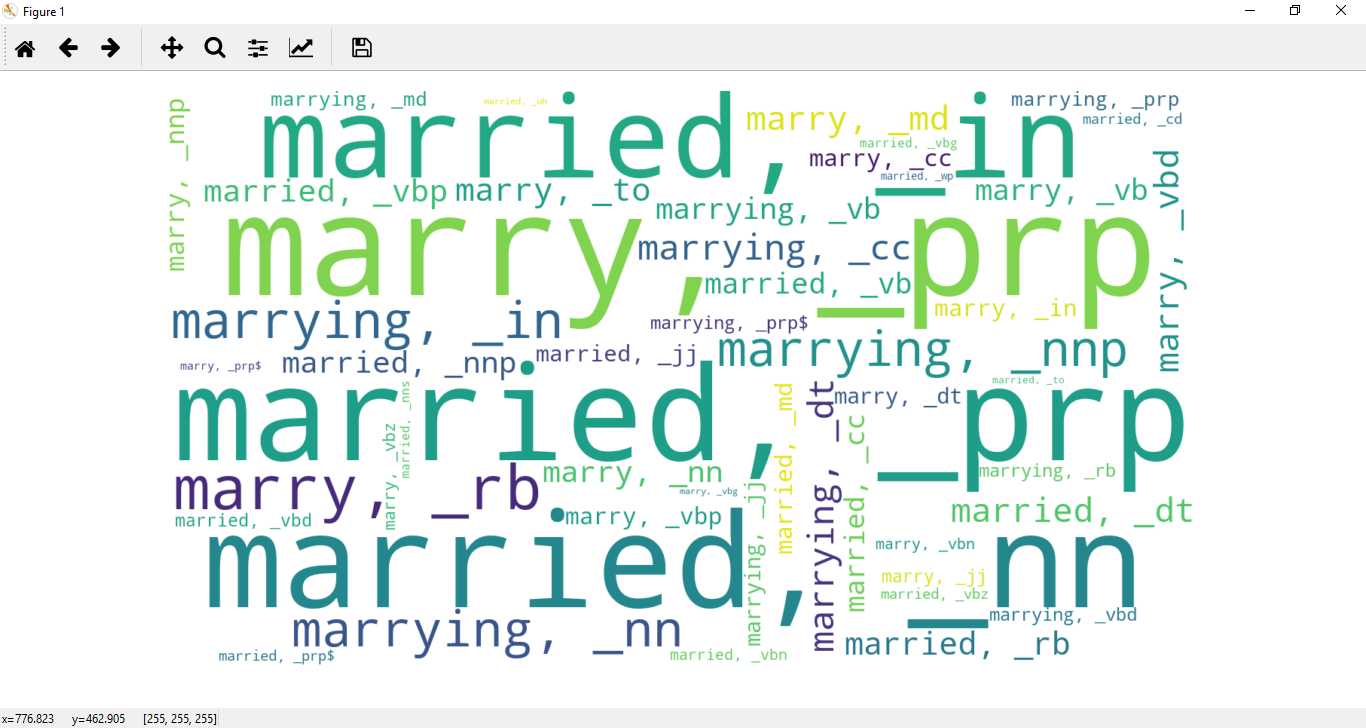
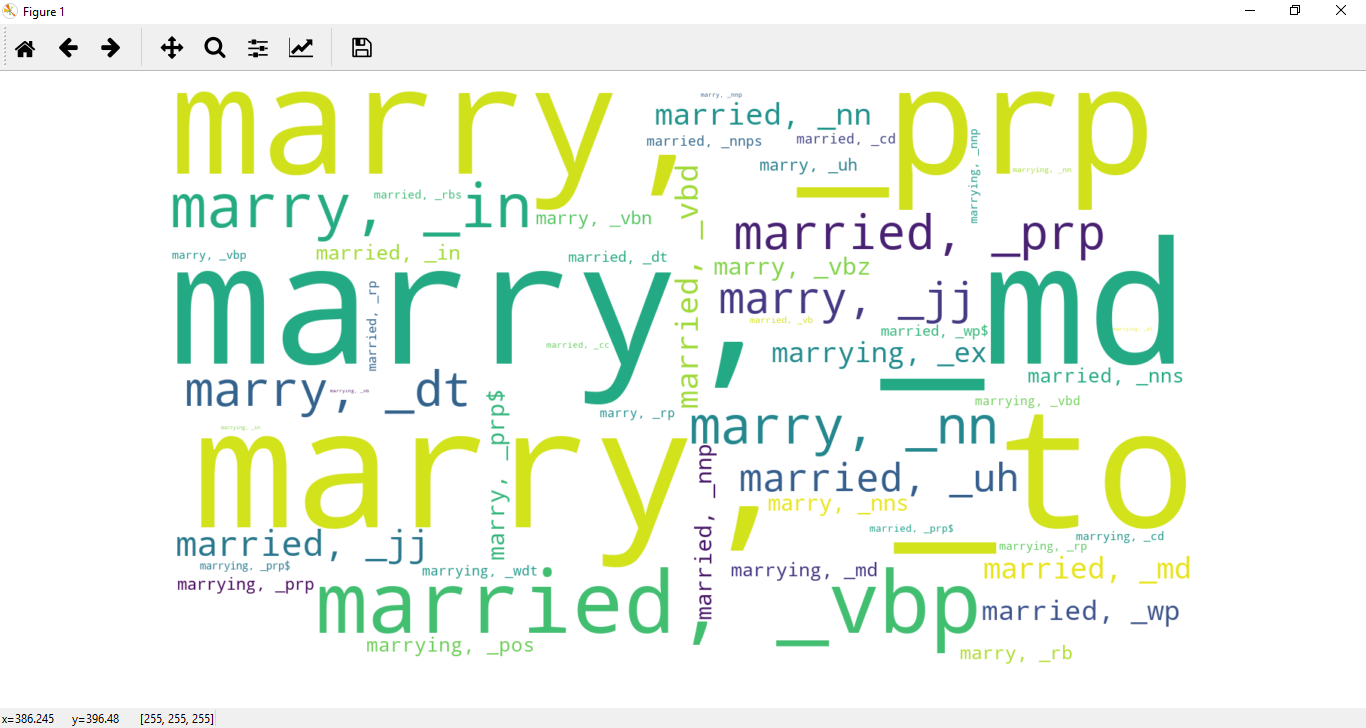
Work Area: Update Colligation

Changed region(s): [[0.123, 0.1209, 0.8917, 0.9066], [0.0615, 0.967, 0.1845, 0.9973], [0.0, 0.967, 0.0307, 0.9973]]

diff --git a/src/wordless_colligation.py b/src/wordless_colligation.py
@@ -11,6 +11,7 @@
 
 import collections
 import copy
+import operator
 import re
 import time
 
@@ -634,14 +635,13 @@ class Wordless_Worker_Process_Data_Colligation(wordless_threading.Wordless_Worke
     def __init__(self, main, dialog_progress, data_received):
         super().__init__(main, dialog_progress, data_received)
 
-        self.collocates_freqs_files = []
-        self.collocates_stats_files = []
+        self.colligations_freqs_files = []
+        self.colligations_stats_files = []
         self.nodes_text = {}
 
     def process_data(self):
         texts = []
-        ngrams_freq_files = []
-        pos_tags_freq_files = []
+        colligations_freqs_files_all = []
 
         settings = self.main.settings_custom['colligation']
 
@@ -661,8 +661,8 @@ class Wordless_Worker_Process_Data_Colligation(wordless_threading.Wordless_Worke
 
         # Frequency
         for i, file in enumerate(files):
-            collocates_freqs_file = {}
-            collocates_tokens = []
+            colligations_freqs_file = {}
+            colligations_freqs_file_all = {}
 
             text = wordless_text.Wordless_Text(self.main, file)
 
@@ -712,87 +712,91 @@ class Wordless_Worker_Process_Data_Colligation(wordless_threading.Wordless_Worke
                 len_search_term_max = 1
 
             for ngram_size in range(len_search_term_min, len_search_term_max + 1):
+                if ngram_size not in colligations_freqs_files_all:
+                    colligations_freqs_file_all[ngram_size] = collections.Counter()
+
                 for i, ngram in enumerate(nltk.ngrams(tokens, ngram_size)):
                     for j, collocate in enumerate(reversed(text.tags_pos[max(0, i - window_size_left) : i])):
                         if wordless_matching.check_context(i, tokens,
                                                            context_settings = settings['context_settings'],
                                                            search_terms_inclusion = search_terms_inclusion,
                                                            search_terms_exclusion = search_terms_exclusion):
-                            if (ngram, collocate) not in collocates_freqs_file:
-                                collocates_freqs_file[(ngram, collocate)] = [0] * window_size
+                            if (ngram, collocate) not in colligations_freqs_file:
+                                colligations_freqs_file[(ngram, collocate)] = [0] * window_size
 
-                            collocates_freqs_file[(ngram, collocate)][window_size_left - 1 - j] += 1
+                            colligations_freqs_file[(ngram, collocate)][window_size_left - 1 - j] += 1
 
-                            collocates_tokens.append(tokens[max(0, i - window_size_left) : i][j])
+                        colligations_freqs_file_all[ngram_size][(ngram, collocate)] += 1
 
                     for j, collocate in enumerate(text.tags_pos[i + ngram_size: i + ngram_size + window_size_right]):
                         if wordless_matching.check_context(i, tokens,
                                                            context_settings = settings['context_settings'],
                                                            search_terms_inclusion = search_terms_inclusion,
                                                            search_terms_exclusion = search_terms_exclusion):
-                            if (ngram, collocate) not in collocates_freqs_file:
-                                collocates_freqs_file[(ngram, collocate)] = [0] * window_size
+                            if (ngram, collocate) not in colligations_freqs_file:
+                                colligations_freqs_file[(ngram, collocate)] = [0] * window_size
 
-                            collocates_freqs_file[(ngram, collocate)][window_size_left + j] += 1
+                            colligations_freqs_file[(ngram, collocate)][window_size_left + j] += 1
 
-                            collocates_tokens.append(tokens[i + ngram_size: i + ngram_size + window_size_right][j])
+                        colligations_freqs_file_all[ngram_size][(ngram, collocate)] += 1
 
-            collocates_freqs_file = {(ngram, collocate): freqs
-                                     for (ngram, collocate), freqs in collocates_freqs_file.items()
+            colligations_freqs_file = {(ngram, collocate): freqs
+                                     for (ngram, collocate), freqs in colligations_freqs_file.items()
                                      if all(ngram) and collocate}
 
             # Filter search terms
             if settings['search_settings']['search_settings']:
-                collocates_freqs_file_filtered = {}
+                colligations_freqs_file_filtered = {}
 
                 for search_term in search_terms:
                     len_search_term = len(search_term)
 
-                    for (node, collocate), freqs in collocates_freqs_file.items():
+                    for (node, collocate), freqs in colligations_freqs_file.items():
                         for ngram in nltk.ngrams(node, len_search_term):
                             if ngram == search_term:
-                                collocates_freqs_file_filtered[(node, collocate)] = freqs
+                                colligations_freqs_file_filtered[(node, collocate)] = freqs
 
-                self.collocates_freqs_files.append(collocates_freqs_file_filtered)
+                self.colligations_freqs_files.append(colligations_freqs_file_filtered)
             else:
-                self.collocates_freqs_files.append(collocates_freqs_file)
+                self.colligations_freqs_files.append(colligations_freqs_file)
 
-            # Frequency (Tokens)
-            for i in range(len_search_term_min, len_search_term_max + 1):
-                    ngrams_freq_files.append(collections.Counter(nltk.ngrams(tokens, i)))
-
-            # Frequency (POS tags)
-            pos_tags_freq_files.append(collections.Counter(text.tags_pos))
+            # Frequency (All)
+            colligations_freqs_files_all.append(colligations_freqs_file_all)
 
             # Nodes Text
             if settings['token_settings']['use_tags']:
-                for (node, collocate) in collocates_freqs_file:
+                for (node, collocate) in colligations_freqs_file:
                     self.nodes_text[node] = wordless_text_processing.wordless_word_detokenize(self.main, node, text.lang_code)
             else:
-                for (node, collocate) in collocates_freqs_file:
+                for (node, collocate) in colligations_freqs_file:
                     self.nodes_text[node] = ' '.join(node)
 
             texts.append(text)
 
         # Total
         if len(files) > 1:
-            collocates_freqs_total = {}
+            colligations_freqs_total = {}
+            colligations_freqs_total_all = {}
 
-            text_total = wordless_text.Wordless_Text_Blank()
-            text_total.tokens = [token for text in texts for token in text.tokens]
+            texts.append(wordless_text.Wordless_Text_Blank())
 
-            texts.append(text_total)
-            ngrams_freq_files.append(sum(ngrams_freq_files, collections.Counter()))
-            pos_tags_freq_files.append(sum(pos_tags_freq_files, collections.Counter()))
-
-            for collocates_freqs_file in self.collocates_freqs_files:
-                for collocate, freqs in collocates_freqs_file.items():
-                    if collocate not in collocates_freqs_total:
-                        collocates_freqs_total[collocate] = numpy.array(freqs)
+            # Frequency
+            for colligations_freqs_file in self.colligations_freqs_files:
+                for colligation, freqs in colligations_freqs_file.items():
+                    if colligation not in colligations_freqs_total:
+                        colligations_freqs_total[colligation] = freqs
                     else:
-                        collocates_freqs_total[collocate] += numpy.array(freqs)
+                        colligations_freqs_total[colligation] = list(map(operator.add, colligations_freqs_total[colligation], freqs))
+            # Frequency (All)
+            for colligations_freqs_file_all in colligations_freqs_files_all:
+                for ngram_size, colligations_freqs in colligations_freqs_file_all.items():
+                    if ngram_size not in colligations_freqs_total_all:
+                        colligations_freqs_total_all[ngram_size] = collections.Counter()
 
-            self.collocates_freqs_files.append(collocates_freqs_total)
+                    colligations_freqs_total_all[ngram_size] += colligations_freqs
+
+            self.colligations_freqs_files.append(colligations_freqs_total)
+            colligations_freqs_files_all.append(colligations_freqs_total_all)
 
         self.progress_updated.emit(self.tr('Processing data ...'))
 
@@ -803,36 +807,44 @@ class Wordless_Worker_Process_Data_Colligation(wordless_threading.Wordless_Worke
         test_significance = self.main.settings_global['tests_significance']['collocation'][text_test_significance]['func']
         measure_effect_size = self.main.settings_global['measures_effect_size']['collocation'][text_measure_effect_size]['func']
 
-        collocates_total = self.collocates_freqs_files[-1].keys()
+        colligations_total = self.colligations_freqs_files[-1].keys()
 
-        for text, ngrams_freq_file, pos_tags_freq_file, collocates_freqs_file in zip(texts,
-                                                                                     ngrams_freq_files,
-                                                                                     pos_tags_freq_files,
-                                                                                     self.collocates_freqs_files):
-            collocates_stats_file = {}
+        for text, colligations_freqs_file, colligations_freqs_file_all in zip(texts,
+                                                                              self.colligations_freqs_files,
+                                                                              colligations_freqs_files_all):
+            colligations_stats_file = {}
+            c1xs = collections.Counter()
+            cx1s = collections.Counter()
+            cxxs = {}
 
-            len_tokens = len(text.tokens)
+            # C1x & Cx1
+            for ngram_size, colligations_freqs in colligations_freqs_file_all.items():
+                for (node, collocate), freq in colligations_freqs.items():
+                    c1xs[collocate] += freq
+                    cx1s[node] += freq
 
-            for node, collocate in collocates_total:
-                len_node = len(node)
+            # Cxx
+            for ngram_size, colligations_freqs in colligations_freqs_file_all.items():
+                cxxs[ngram_size] = sum(colligations_freqs.values())
 
-                if (node, collocate) in collocates_freqs_file:
-                    c11 = sum(collocates_freqs_file[(node, collocate)])
+            for node, collocate in colligations_total:
+                if (node, collocate) in colligations_freqs_file:
+                    c11 = sum(colligations_freqs_file[(node, collocate)])
                 else:
                     c11 = 0
 
-                c12 = max(0, pos_tags_freq_file[(collocate,)] - c11)
-                c21 = max(0, ngrams_freq_file[node] - c11)
-                c22 = len_tokens - c11 - c12 - c21
+                c12 = c1xs[collocate] - c11
+                c21 = cx1s[node] - c11
+                c22 = cxxs[len(node)] - c11 - c12 - c21
 
-                collocates_stats_file[(node, collocate)] = test_significance(self.main, c11, c12, c21, c22)
-                collocates_stats_file[(node, collocate)].append(measure_effect_size(self.main, c11, c12, c21, c22))
+                colligations_stats_file[(node, collocate)] = test_significance(self.main, c11, c12, c21, c22)
+                colligations_stats_file[(node, collocate)].append(measure_effect_size(self.main, c11, c12, c21, c22))
 
-            self.collocates_stats_files.append(collocates_stats_file)
+            self.colligations_stats_files.append(colligations_stats_file)
 
         if len(files) == 1:
-            self.collocates_freqs_files *= 2
-            self.collocates_stats_files *= 2
+            self.colligations_freqs_files *= 2
+            self.colligations_stats_files *= 2
 
 class Wordless_Worker_Process_Data_Colligation_Table(Wordless_Worker_Process_Data_Colligation):
     def process_data(self):
@@ -842,8 +854,8 @@ class Wordless_Worker_Process_Data_Colligation_Table(Wordless_Worker_Process_Dat
 
         time.sleep(0.1)
 
-        self.processing_finished.emit(wordless_misc.merge_dicts(self.collocates_freqs_files),
-                                      wordless_misc.merge_dicts(self.collocates_stats_files),
+        self.processing_finished.emit(wordless_misc.merge_dicts(self.colligations_freqs_files),
+                                      wordless_misc.merge_dicts(self.colligations_stats_files),
                                       self.nodes_text)
 
 class Wordless_Worker_Process_Data_Colligation_Fig(Wordless_Worker_Process_Data_Colligation):
@@ -854,14 +866,14 @@ class Wordless_Worker_Process_Data_Colligation_Fig(Wordless_Worker_Process_Data_
 
         time.sleep(0.1)
 
-        self.processing_finished.emit(wordless_misc.merge_dicts(self.collocates_freqs_files),
-                                      wordless_misc.merge_dicts(self.collocates_stats_files),
+        self.processing_finished.emit(wordless_misc.merge_dicts(self.colligations_freqs_files),
+                                      wordless_misc.merge_dicts(self.colligations_stats_files),
                                       self.nodes_text)
 
 @wordless_misc.log_timing
 def generate_table(main, table):
-    def data_received(collocates_freqs_files, collocates_stats_files, nodes_text):
-        if collocates_freqs_files:
+    def data_received(colligations_freqs_files, colligations_stats_files, nodes_text):
+        if colligations_freqs_files:
             table.clear_table()
 
             table.settings = main.settings_custom
@@ -978,10 +990,10 @@ def generate_table(main, table):
             table.setSortingEnabled(False)
             table.setUpdatesEnabled(False)
 
-            table.setRowCount(len(collocates_freqs_files))
+            table.setRowCount(len(colligations_freqs_files))
 
-            for i, ((node, collocate), stats_files) in enumerate(wordless_sorting.sorted_collocates_stats_files(collocates_stats_files)):
-                freqs_files = collocates_freqs_files[(node, collocate)]
+            for i, ((node, collocate), stats_files) in enumerate(wordless_sorting.sorted_collocations_stats_files(colligations_stats_files)):
+                freqs_files = colligations_freqs_files[(node, collocate)]
 
                 # Rank
                 table.set_item_num_int(i, 0, -1)
@@ -1065,8 +1077,8 @@ def generate_table(main, table):
 
 @wordless_misc.log_timing
 def generate_fig(main):
-    def data_received(collocates_freqs_files, collocates_stats_files, nodes_text):
-        if collocates_freqs_files:
+    def data_received(colligations_freqs_file, colligations_stats_files, nodes_text):
+        if colligations_freqs_file:
             text_test_significance = settings['generation_settings']['test_significance']
             text_measure_effect_size = settings['generation_settings']['measure_effect_size']
 
@@ -1085,40 +1097,40 @@ def generate_fig(main):
                     span_position = span_positions.index(int(settings['fig_settings']['use_data'][1:]))
 
                 collocates_freq_files = {', '.join([nodes_text[node], collocate]): numpy.array(freqs)[:, span_position]
-                                         for (node, collocate), freqs in collocates_freqs_files.items()}
+                                         for (node, collocate), freqs in colligations_freqs_file.items()}
 
                 wordless_fig_freq.wordless_fig_freq(main, collocates_freq_files,
                                                     settings = settings['fig_settings'],
                                                     label_x = main.tr('Collocates'))
             elif settings['fig_settings']['use_data'] == main.tr('Frequency'):
                 collocates_freq_files = {', '.join([nodes_text[node], collocate]): numpy.array(freqs).sum(axis = 1)
-                                         for (node, collocate), freqs in collocates_freqs_files.items()}
+                                         for (node, collocate), freqs in colligations_freqs_file.items()}
 
                 wordless_fig_freq.wordless_fig_freq(main, collocates_freq_files,
                                                     settings = settings['fig_settings'],
                                                     label_x = main.tr('Collocates'))
             else:
-                collocates_stats_files = {', '.join([nodes_text[node], collocate]): freqs
-                                          for (node, collocate), freqs in collocates_stats_files.items()}
+                colligations_stats_files = {', '.join([nodes_text[node], collocate]): freqs
+                                          for (node, collocate), freqs in colligations_stats_files.items()}
 
                 if settings['fig_settings']['use_data'] == text_test_stat:
                     collocates_stat_files = {collocate: numpy.array(stats_files)[:, 0]
-                                             for collocate, stats_files in collocates_stats_files.items()}
+                                             for collocate, stats_files in colligations_stats_files.items()}
 
                     label_y = text_test_stat
                 elif settings['fig_settings']['use_data'] == text_p_value:
                     collocates_stat_files = {collocate: numpy.array(stats_files)[:, 1]
-                                             for collocate, stats_files in collocates_stats_files.items()}
+                                             for collocate, stats_files in colligations_stats_files.items()}
 
                     label_y = text_p_value
                 elif settings['fig_settings']['use_data'] == text_bayes_factor:
                     collocates_stat_files = {collocate: numpy.array(stats_files)[:, 2]
-                                             for collocate, stats_files in collocates_stats_files.items()}
+                                             for collocate, stats_files in colligations_stats_files.items()}
 
                     label_y = text_bayes_factor
                 elif settings['fig_settings']['use_data'] == text_effect_size:
                     collocates_stat_files = {collocate: numpy.array(stats_files)[:, 3]
-                                             for collocate, stats_files in collocates_stats_files.items()}
+                                             for collocate, stats_files in colligations_stats_files.items()}
 
                     label_y = text_effect_size
 
@@ -1135,7 +1147,7 @@ def generate_fig(main):
 
         dialog_progress.accept()
 
-        if collocates_freqs_files:
+        if colligations_freqs_file:
             wordless_fig.show_fig()
 
     settings = main.settings_custom['colligation']
